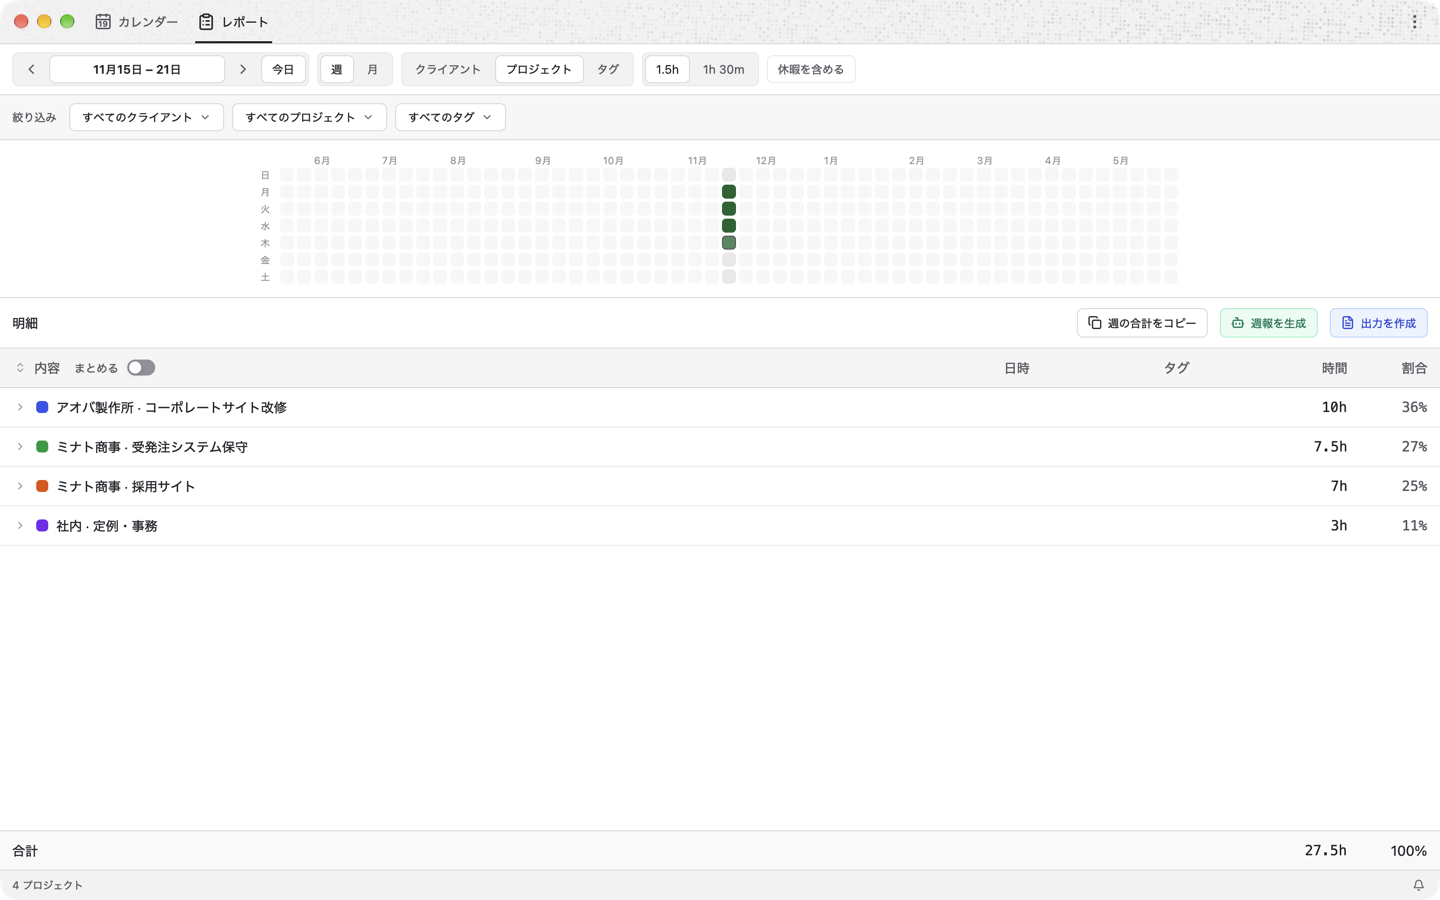
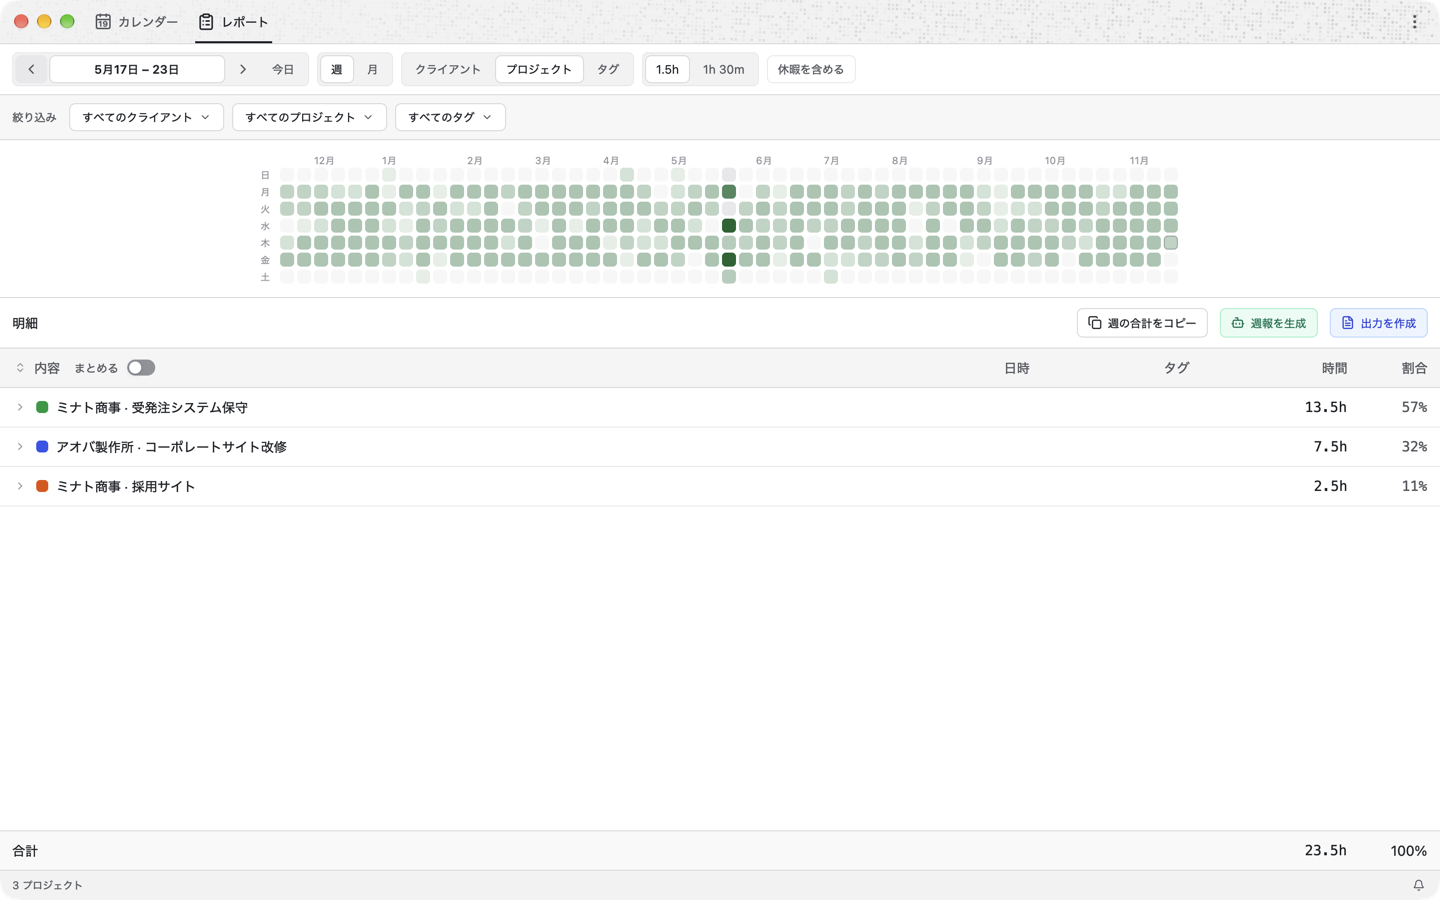
docs: README のレポート画面を、1 年分のダミーデータで草グラフが埋まったものにする

diff --git a/scripts/seed-demo.py b/scripts/seed-demo.py
@@ -1,10 +1,12 @@
-"""Fills an empty demo home with made-up clients, projects, tags and a week of entries
-(2026-11-16 to 19), for the README's screenshots. No real data.
+"""Fills an empty demo home with made-up clients, projects, tags and entries, for the README's
+screenshots: the week of 2026-11-16 to 19 by hand, and a year before it (from 2025-11-17) made up
+with a fixed random seed so the report's heatmap is filled. No real data.
 
     cargo build --workspace
     python3 scripts/seed-demo.py /tmp/demohome
     HOME=/tmp/demohome TRACK_DATA_DIR=/tmp/demohome/.track-gpui TRACK_GPUI_WINDOW=1440x900 \
       TRACK_GPUI_APPEARANCE=light ./target/debug/track-gpui        # then scripts/winshot.sh
+For the report, go back 26 weeks (the \"<\" button) so the heatmap's 53 weeks are all in the past.
 """
 import json, os, subprocess, sys
 D = sys.argv[1]
@@ -62,4 +64,33 @@ for day, s, e, p, title, tag in E:
     args = ["create", "--start", f"2026-11-{day}T{s}:00+09:00", "--end", f"2026-11-{day}T{e}:00+09:00", "--title", title, "--project-id", projects[p], "--confirmed"]
     if tag: args += ["--tag-id", tags[tag]]
     cli(*args)
+# A year of made-up weekdays before that week, so the heatmap is filled.
+import datetime, random
+rng = random.Random(7)
+TITLES = {
+    "web": [("ページのコーディング", "開発"), ("デザインレビュー", "打合せ"), ("画像の書き出し", "デザイン")],
+    "sys": [("問い合わせ対応", None), ("不具合の調査", "開発"), ("帳票の修正", "開発")],
+    "rec": [("ページのデザイン", "デザイン"), ("原稿の確認", "打合せ")],
+    "in": [("社内定例", "打合せ"), ("経費精算", "事務")],
+}
+day = datetime.date(2025, 11, 17)
+while day < datetime.date(2026, 11, 16):
+    weekend = day.weekday() >= 5
+    if weekend:
+        minutes = rng.choice([60, 90, 120]) if rng.random() < 0.06 else 0
+    else:
+        minutes = rng.choices([0, 90, 210, 300, 420, 480], [6, 6, 12, 20, 30, 26])[0]
+    t = 10 * 60
+    while minutes > 0:
+        length = min(minutes, rng.choice([60, 90, 120, 150]))
+        p = rng.choices(["web", "sys", "rec", "in"], [4, 4, 2, 1])[0]
+        title, tag = rng.choice(TITLES[p])
+        if t == 12 * 60:
+            t += 60  # lunch
+        s, e = t, t + length
+        args = ["create", "--start", f"{day}T{s // 60:02}:{s % 60:02}:00+09:00", "--end", f"{day}T{e // 60:02}:{e % 60:02}:00+09:00", "--title", title, "--project-id", projects[p], "--confirmed"]
+        if tag: args += ["--tag-id", tags[tag]]
+        cli(*args)
+        t, minutes = e, minutes - length
+    day += datetime.timedelta(days=1)
 print(cli("status"))
